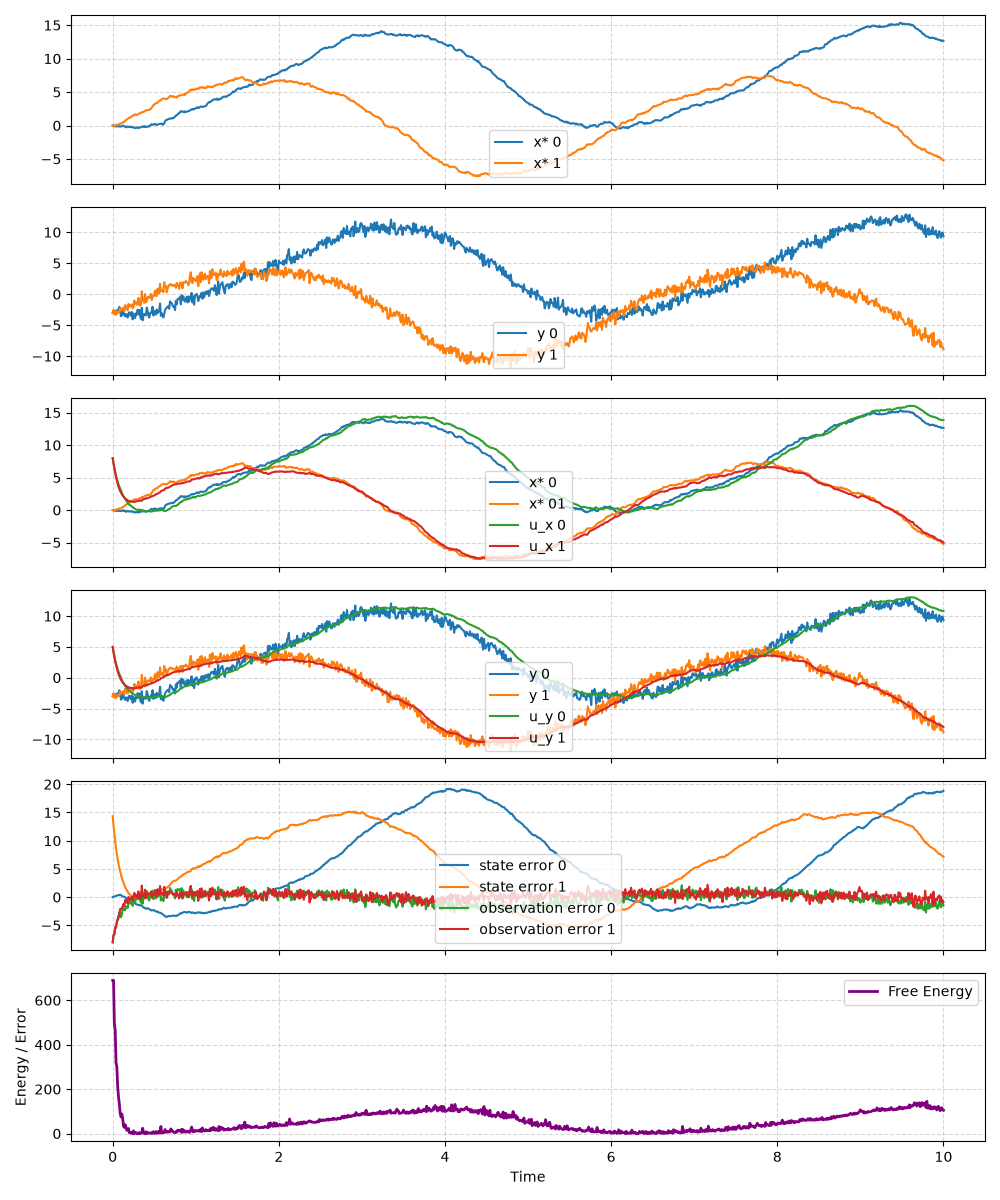
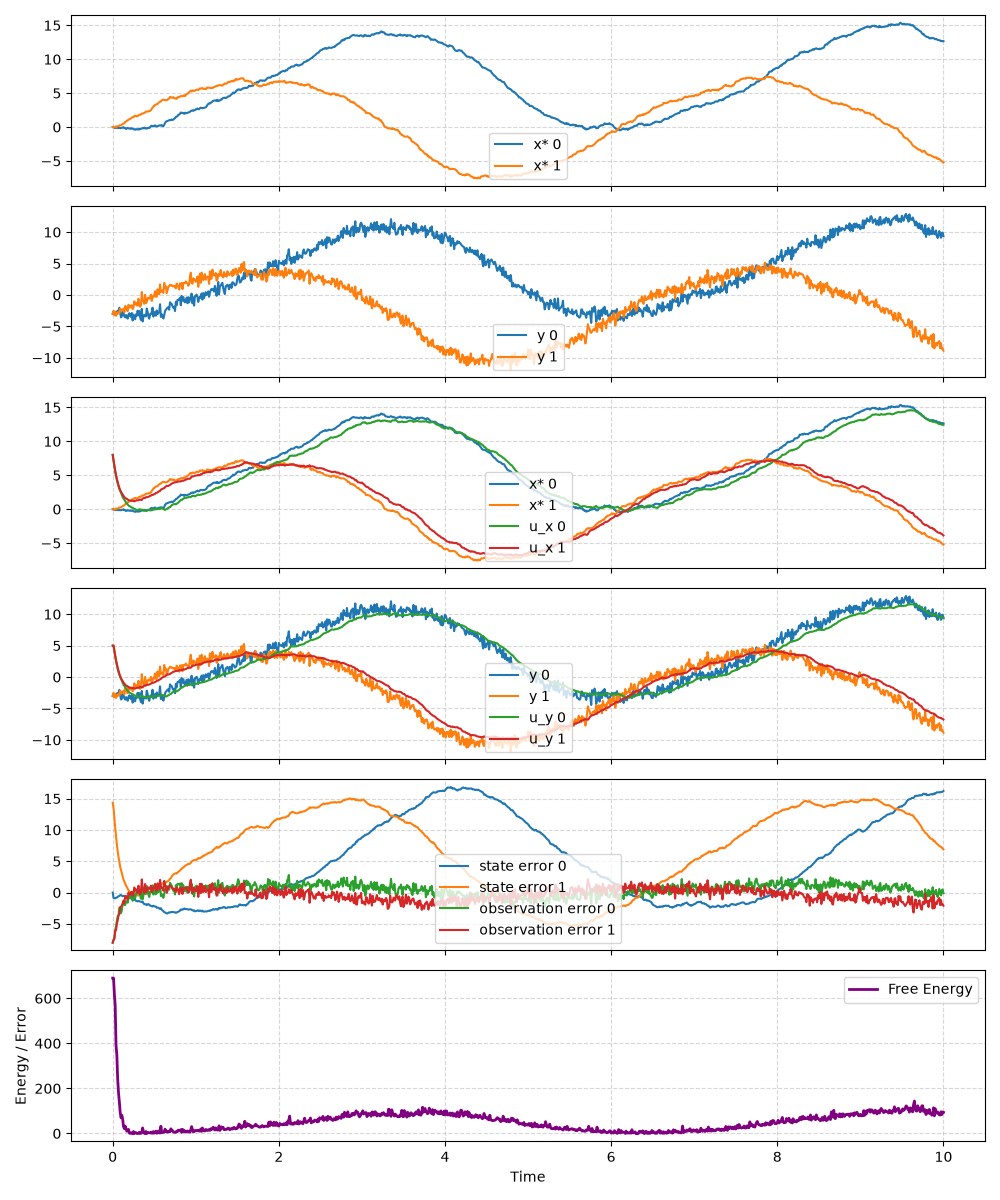
fixed the multivar error and gradient calculations and added a Hooke's Law explanation

diff --git a/multi_var_filtering.py b/multi_var_filtering.py
@@ -1,7 +1,47 @@
 """
-This is a multivariate generalized filter for perception. The agent models Hooke's Law, which describes the oscilation of a linear spring. 
+This is an example of a multivariate generalized filter for perception. 
+The agent models Hooke's Law, which describes the oscilation of a linear spring. 
 
-The code below is copy pasted from generalized_filtering.py and is a work in progress. 
+Please note that according to the Gemini, the math is actually not Hooke's Law. 
+It has been modified to show a more interesting, oscillatory behavior.
+
+Please forgive the following rather opaque explanation: 
+
+####################################################
+# Derivation of the true Hooke's Law state update: #
+####################################################
+
+Hooke's Law:
+F = -kx
+   
+Newton's Second Law:
+F = ma
+
+ma = -kx
+a  = (-k/m) * x
+
+accleration as the derivative of velocity x_1:
+dx_1 = (-k/m) * x_0
+
+velocity as the derivative of position x_0:
+dx_0 = x_1
+
+Therefore the state update is:
+position: x_0 + x_1 * t
+velocity: x_1 + (-k/m) * x_0 * t]
+
+The example from the book uses the following velocity, acceleration, and state update:
+
+velocity as the derivative of position:
+v_0 + x_1
+
+acceleration as the derivative of velocity:
+(k / m) * v_1 - x_0
+
+position: x_0 + (v_1 + x_0) * t
+velocity: x_1 + ((k/m) * v_1 - x_0) * t 
+
+This creates a more interesting oscillatory behavior than the true Hooke's Law.
 """
 
 
@@ -53,9 +93,15 @@ def observation_generating_function(u_x, theta_y):
 def update_hidden_state(u_x, lambda_y, e_y, dg_du, lambda_x, e_x, df_du, k):
     # Free Energy Gradient
     # In this case there is no place to plug in u_x as the slope is the same for all possible values
-    print(e_y)
-    print(lambda_y, np.array(e_y).T, np.array(dg_du).T)
-    gradient = lambda_y @ np.array(e_y).T * np.array(dg_du) + lambda_x @ np.array(e_x).T * np.array(df_du)
+
+    # Notice in the print statement below that the error arrays e_y and e_x are printed [e_1, e_2] instead of [[e_1], [e_2]].
+    # This is because numpy automatically converted the python list to a 1D array. Also, attempting to transpose a 1D numpy
+    # array does nothing. Luckily, numpy automatically transposes it when matrix multiplication requires it. Terefore, the .T 
+    # of the errors in the gradient are not necessary but are there so no one gets confused. 
+    
+    # print(f"lambda_y: \n{lambda_y}, \ne_y: \n{np.array(e_y)}, \ndg_du: \n{dg_du}, \nlambda_x: \n{lambda_x}, \ne_x: \n{np.array(e_x).T}, \ndf_du: \n{df_du}")
+    
+    gradient = dg_du.T @ lambda_y @ np.array(e_y).T + df_du.T @ lambda_x @ np.array(e_x).T
     new_u_x = [u_x[0] + T_STEP * k * gradient[0], u_x[1] + T_STEP * k * gradient[1]]
     return new_u_x
 
@@ -69,11 +115,11 @@ def recalculate_free_energy(lambda_y_arr, e_y, lambda_x_arr, e_x):
     new_f = 0.5 * (f_x + f_y)
     return new_f
 
-def recalculate_prediction_error(u_x, theta_x, y, theta_y):
-    x_n = state_transition_function(theta_x, u_x)
+def recalculate_prediction_error(u_x, u_x_prev, theta_x, y, theta_y):
+    x_n = state_transition_function(theta_x, u_x_prev)
     next_e_x = [u_x[0] - x_n[0], u_x[1] - x_n[1]]
 
-    u_y = observation_generating_function(u_x, theta_y)
+    u_y = observation_generating_function(u_x_prev, theta_y)
     next_e_y = [y[0] - u_y[0], y[1] - u_y[1]]
     return next_e_x, next_e_y, u_y
 
@@ -101,7 +147,7 @@ def graph_results(x_star, y, u_x, u_y, e_x, e_y, f):
 
     # --- GRAPH 3: 2 Values ---
     axs[2].plot(T, x_star_arr[:, 0], label="x* 0")
-    axs[2].plot(T, x_star_arr[:, 1], label="x* 01")
+    axs[2].plot(T, x_star_arr[:, 1], label="x* 1")
     axs[2].plot(T, u_x_arr[:, 0], label="u_x 0")
     axs[2].plot(T, u_x_arr[:, 1], label="u_x 1")
     axs[2].legend(loc='lower center')
@@ -158,8 +204,10 @@ def main():
     theta_x = [k, m, v]
     theta_y = 3
 
-    df_du = [1, -1]
-    dg_du = [1, 1]
+    df_du = np.array([[0, 1], 
+                      [-1, 0]])
+    dg_du = np.array([[1, 0], 
+                      [0, 1]])
 
     # Initial state prediction error
     x_n = state_transition_function(theta_x, u_x[-1])
@@ -168,7 +216,7 @@ def main():
     # Initial observation prediction error
     u_y = [observation_generating_function(u_x[-1], theta_y)]
     e_y = [[initial_observation[0] - u_y[-1][0], initial_observation[1] - u_y[-1][1]]]
-    print(e_y, e_x)
+    
     # Initial Free Energy
     f_x = 0
     for i, lam in enumerate(lambda_x_arr): 
@@ -181,7 +229,7 @@ def main():
     # AIF
     for _ in LOOP_T:
         ####### Generative Process #######
-
+        
         # Generate new external state and observation 
         x_star.append(generate_state(x_star[-1], theta_star_x))    
         y.append(generate_observation(x_star[-1], theta_star_y))
@@ -195,9 +243,9 @@ def main():
         
         # Update free energy calculation
         f.append(recalculate_free_energy(lambda_y_arr, e_y[-1], lambda_x_arr, e_x[-1]))
-
+        
         # Update prediction errors using new observation and hidden state estimate 
-        next_e_x, next_e_y, next_u_y = recalculate_prediction_error(u_x[-1], theta_x, y[-1], theta_y)
+        next_e_x, next_e_y, next_u_y = recalculate_prediction_error(u_x[-1], u_x[-2], theta_x, y[-1], theta_y)
         e_x.append(next_e_x)
         e_y.append(next_e_y)
         u_y.append(next_u_y)
